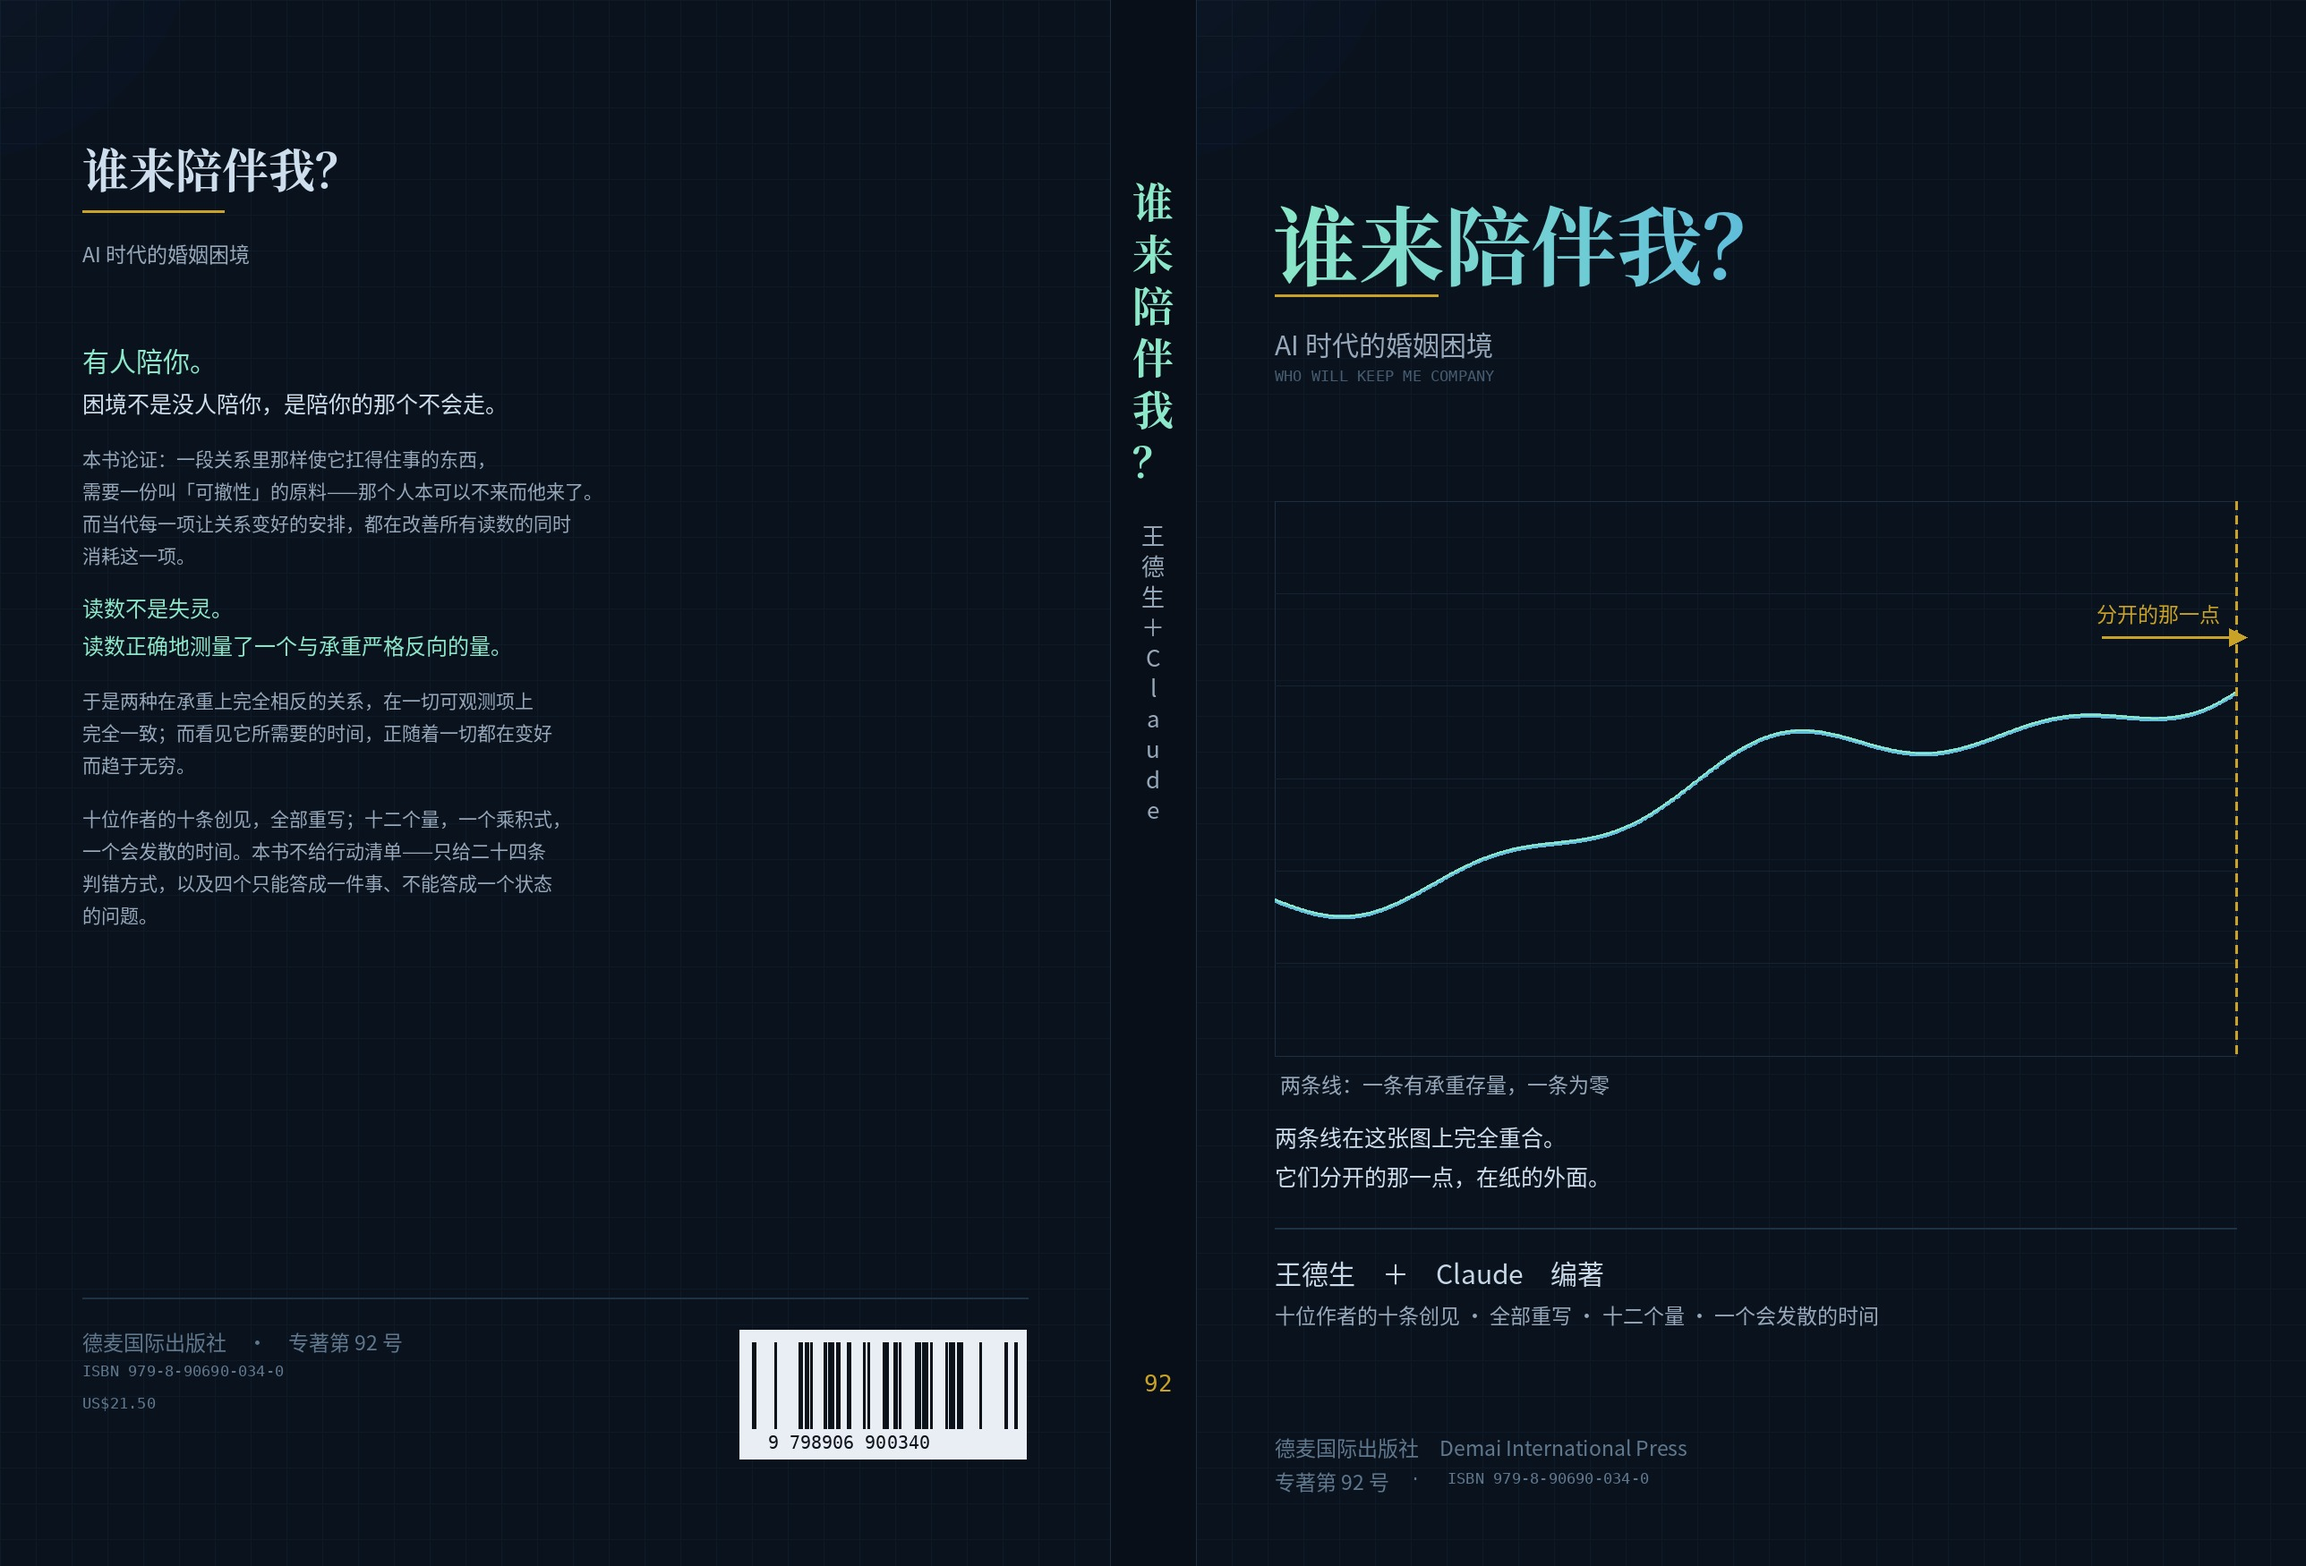
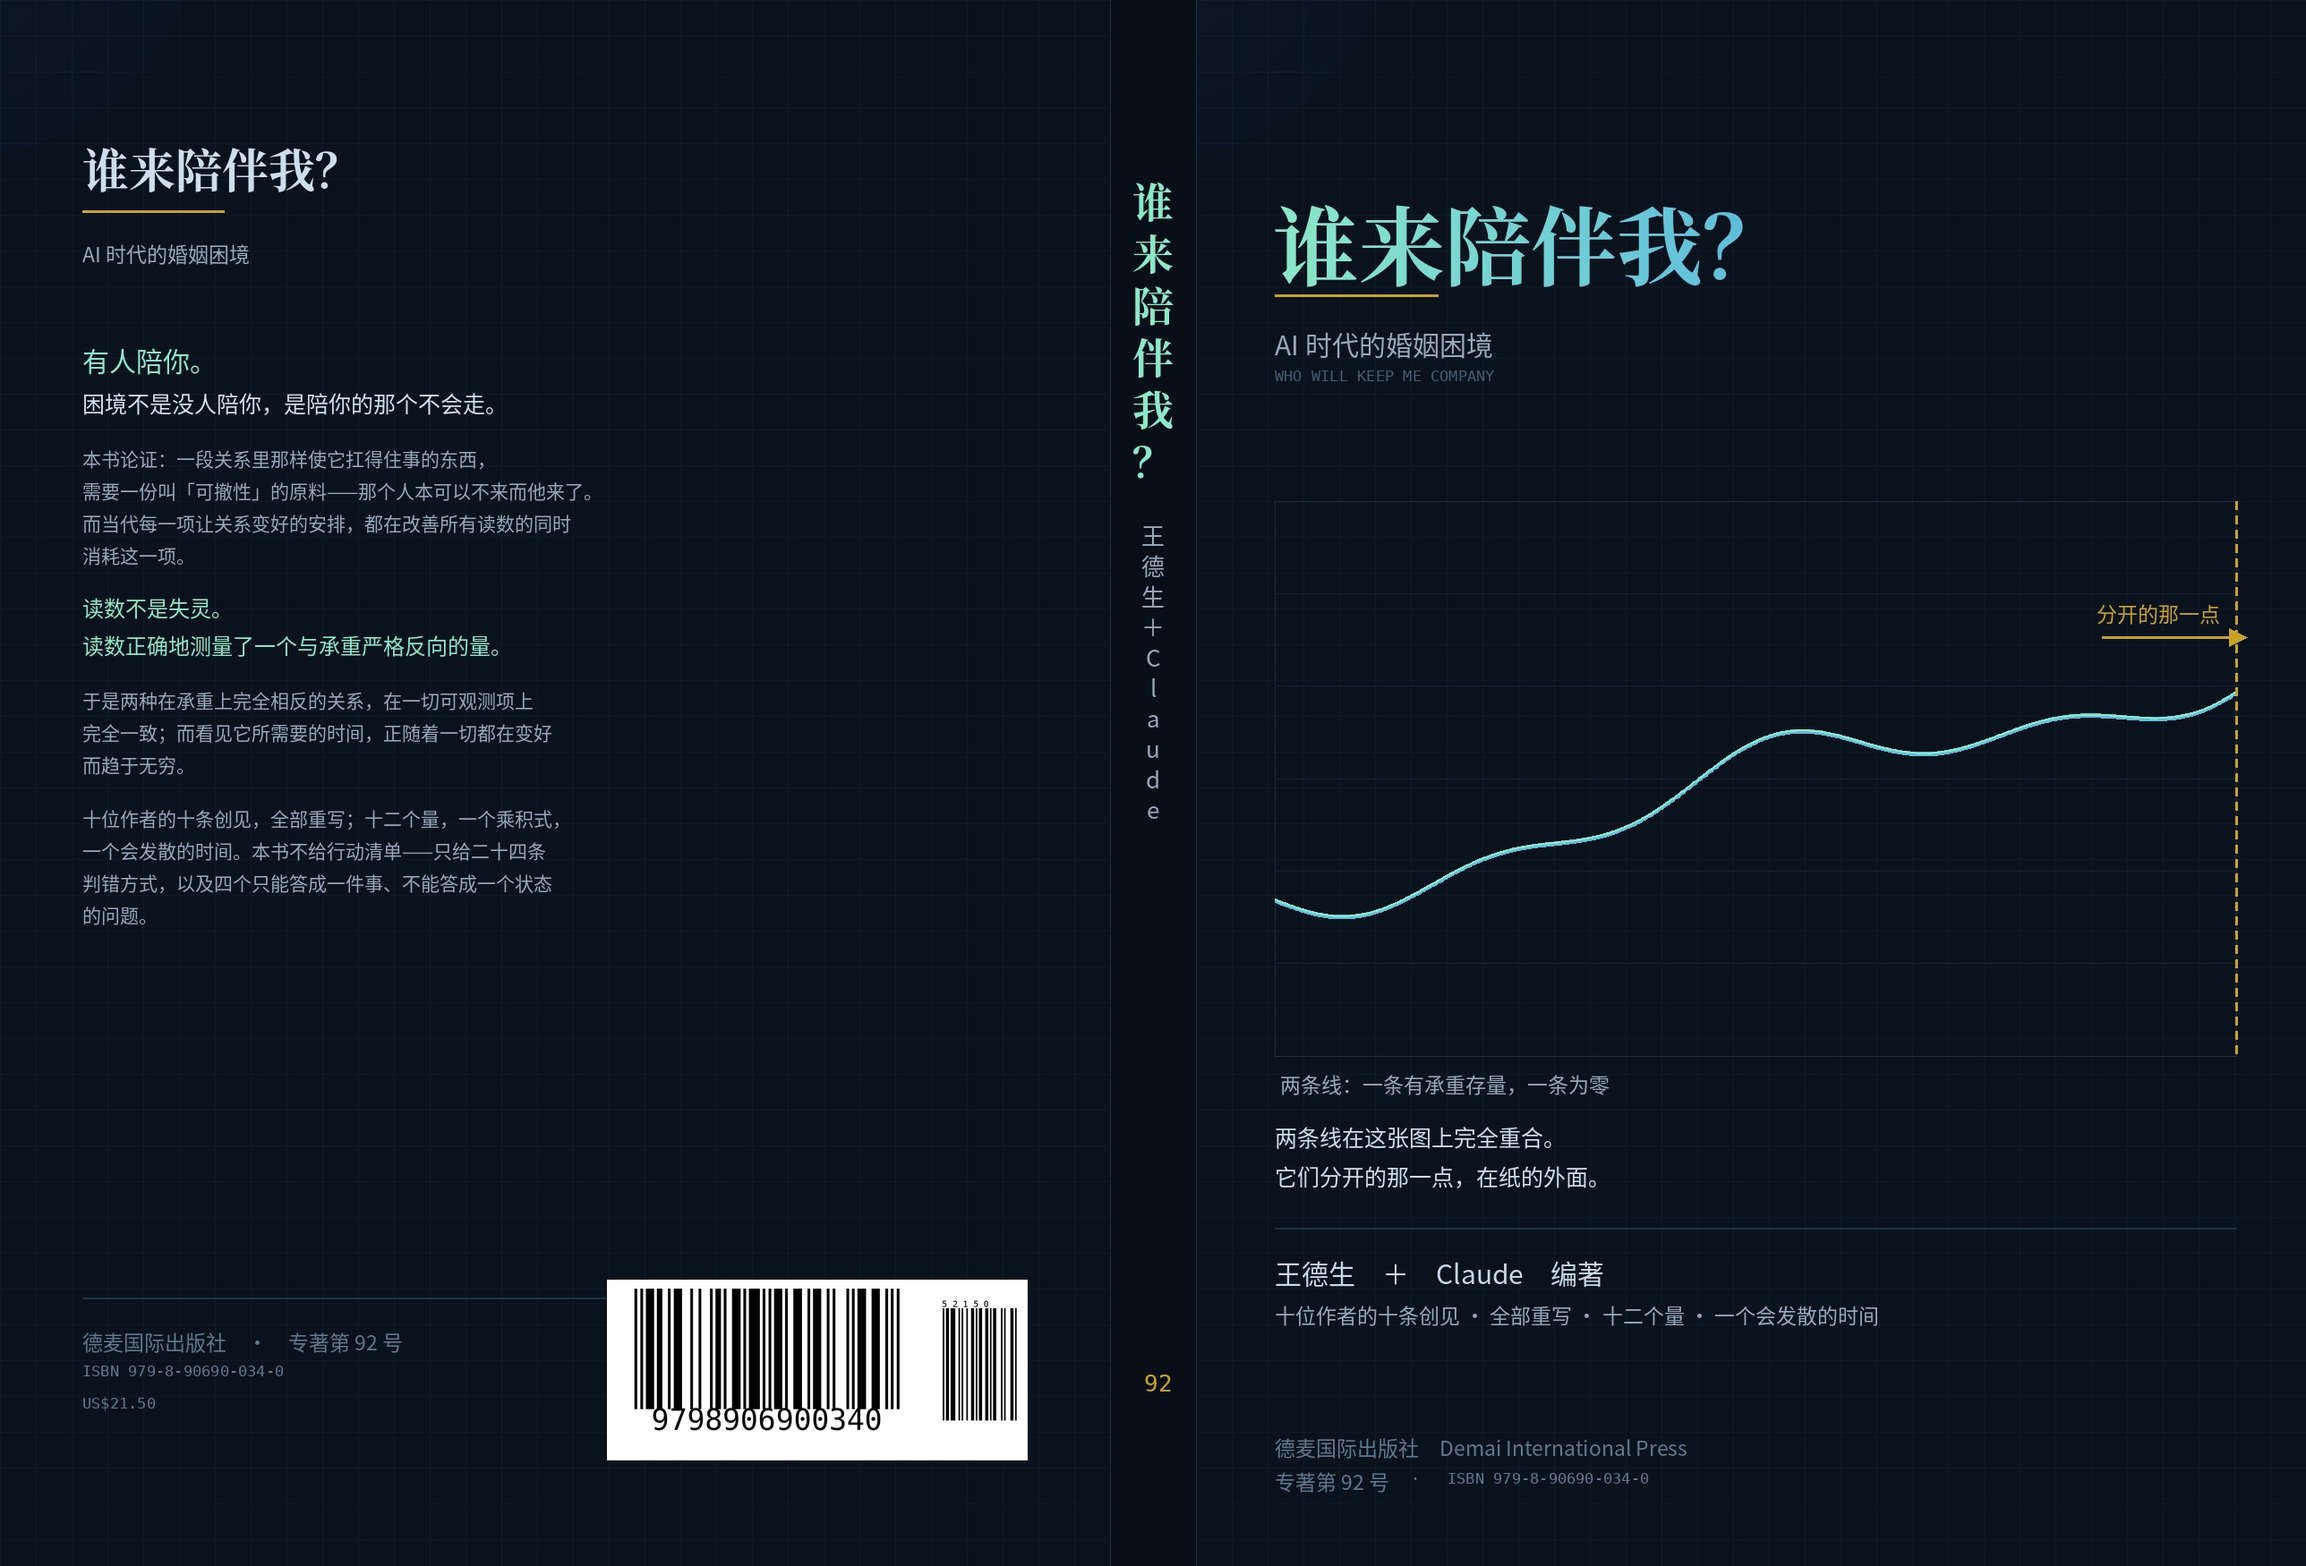
Book 92: replace the decorative back-cover stripes with a real EAN-13 (9798906900340) plus an EAN-5 price add-on (52150 = US$21.50), both verified by reading them back with pyzbar

Changed region(s): [[0.2484, 0.8023, 0.4658, 0.9566]]

diff --git a/tools/book92/cover.py b/tools/book92/cover.py
@@ -56,6 +56,66 @@ def panel(w, h):
     return im, ImageDraw.Draw(im)
 
 
+def make_barcode():
+    """真 EAN-13 ＋ EAN-5 价格附加码，白底黑条，含静区；生成后用 pyzbar 实读校验。"""
+    import barcode
+    from barcode.writer import ImageWriter
+    from pyzbar.pyzbar import decode, ZBarSymbol
+
+    CODE, ADDON = '9798906900340', '52150'
+
+    EAN = barcode.get_barcode_class('ean13')
+    bcz = EAN(CODE[:12], writer=ImageWriter())
+    assert bcz.get_fullcode() == CODE, ('EAN13 校验位不符', bcz.get_fullcode())
+    path = bcz.save('/tmp/ean13_92', options=dict(
+        module_width=0.30, module_height=13.0, quiet_zone=3.0,
+        font_size=9, text_distance=3.0, write_text=True, dpi=600))
+    main = Image.open(path).convert('L')
+
+    # ---- EAN-5 附加码（python-barcode 不支持，按规范手绘）----
+    Lc = ['0001101', '0011001', '0010011', '0111101', '0100011',
+          '0110001', '0101111', '0111011', '0110111', '0001011']
+    Gc = ['0100111', '0110011', '0011011', '0100001', '0011101',
+          '0111001', '0000101', '0010001', '0001001', '0010111']
+    PAR = {0: 'GGLLL', 1: 'GLGLL', 2: 'GLLGL', 3: 'GLLLG', 4: 'LGGLL',
+           5: 'LLGGL', 6: 'LLLGG', 7: 'LGLGL', 8: 'LGLLG', 9: 'LLGLG'}
+    d = [int(c) for c in ADDON]
+    pat = PAR[(sum(d[0::2]) * 3 + sum(d[1::2]) * 9) % 10]
+    bits = '01011'
+    for i, (p, dg) in enumerate(zip(pat, d)):
+        bits += (Lc if p == 'L' else Gc)[dg]
+        if i < 4:
+            bits += '01'
+
+    scale = main.size[1] / 462.0          # 与主码等比
+    mw = max(2, int(round(4 * scale)))
+    ah = int(main.size[1] * 0.62)
+    aw = len(bits) * mw + mw * 11
+    add = Image.new('L', (aw, main.size[1]), 255)
+    ad = ImageDraw.Draw(add)
+    top = int(main.size[1] * 0.16)
+    for i, b in enumerate(bits):
+        if b == '1':
+            ad.rectangle([mw * 4 + i * mw, top, mw * 4 + i * mw + mw - 1, top + ah], fill=0)
+    fa = f(MONO, max(10, int(22 * scale)))
+    ad.text((mw * 4 + 2, top - int(24 * scale)), ' '.join(ADDON), font=fa, fill=0)
+
+    gap = int(20 * scale)
+    out = Image.new('L', (main.size[0] + gap + aw, main.size[1]), 255)
+    out.paste(main, (0, 0))
+    out.paste(add, (main.size[0] + gap, 0))
+
+    r13 = decode(out, symbols=[ZBarSymbol.EAN13])
+    r5 = decode(out, symbols=[ZBarSymbol.EAN5])
+    assert r13 and r13[0].data.decode() == CODE, ('EAN13 实读失败', r13)
+    assert r5 and r5[0].data.decode() == ADDON, ('EAN5 实读失败', r5)
+    print('  条码实读通过:', CODE, '+', ADDON)
+
+    target_w = 470
+    out = out.resize((target_w, int(out.size[1] * target_w / out.size[0])), Image.LANCZOS)
+    return out.convert('RGB')
+
+
 # ================= 封面 =================
 cov, d = panel(W, H)
 
@@ -164,18 +224,13 @@ bd.text((92, H - 268), '德麦国际出版社　·　专著第 92 号', font=fs,
 bd.text((92, H - 228), 'ISBN 979-8-90690-034-0', font=fm, fill=(96, 120, 142))
 bd.text((92, H - 192), 'US$21.50', font=fm, fill=(96, 120, 142))
 
-# 装饰性条码（非真 EAN13）
-bx, by = W - 400, H - 250
-bd.rectangle([bx - 14, by - 14, bx + 306, by + 130], fill=(232, 238, 244))
-import random
-random.seed(92)
-x = bx
-while x < bx + 300:
-    w_ = random.choice([2, 2, 3, 4, 6])
-    if random.random() < 0.55:
-        bd.rectangle([x, by, x + w_, by + 96], fill=(12, 18, 26))
-    x += w_ + random.choice([2, 3])
-bd.text((bx + 18, by + 100), '9 798906 900340', font=f(MONO, 20), fill=(12, 18, 26))
+# ===== 真 EAN-13（9798906900340）＋ EAN-5 价格附加码（52150 = USD $21.50）=====
+# 由 make_barcode() 生成并经 pyzbar 实读验证；验证不过则整封不出图。
+bc_img = make_barcode()
+bcw, bch = bc_img.size
+bx, by = W - 92 - bcw, H - 118 - bch
+bk.paste(bc_img, (bx, by))
+bd = ImageDraw.Draw(bk)
 
 full.paste(bk, (0, 0))
 full.paste(cov, (W + SPINE, 0))

diff --git a/tools/book92/README.md b/tools/book92/README.md
@@ -24,3 +24,11 @@ AI 时代的婚姻困境 · 王德生 ＋ Claude 编著 · **ISBN 979-8-90690-03
 3. **改号／改 ISBN 须同步七处**：front.md 出版信息、build_docx 扉页、cover.py（封面／封底／条码数字串）、publish/landing/insert 三脚本；改完必须重跑 asm→docx→PDF 两遍构建
 
 版式：170×240mm，正文 9.5pt / 行距 1.35，边距 17/15/16/15mm。终检：豆腐块 0，目录 29/29 全命中，两遍构建漂移 0。
+
+## 2026-08-17 封底换真条码
+`cover.py` 新增 `make_barcode()`：
+- **EAN-13** `9798906900340` 由 python-barcode 生成（传前 12 位，库自算校验位，再 `assert get_fullcode()==CODE` 回验）
+- **EAN-5 价格附加码** `52150`（＝ USD $21.50；首位 5 表示美元）——python-barcode 不支持，按规范手绘：起始符 `01011`、L/G 编码表、校验位 `(奇位和×3+偶位和×9) mod 10` 决定 L/G 奇偶模式、字符间分隔符 `01`
+- 两者拼成一张白底图后**用 pyzbar 实读校验**，`EAN13` 与 `EAN5` 任一读不出即 `assert` 失败、整封不出图
+装依赖：`pip install python-barcode pyzbar --break-system-packages`
+⚠ 只有 `cover-full.jpg`（整封）含条码；`cover.jpg`（正封）不含，故换条码**不需要重出 PDF**——PDF 的封面图页用的是正封。本轮 cover.jpg md5 未变，已核。
